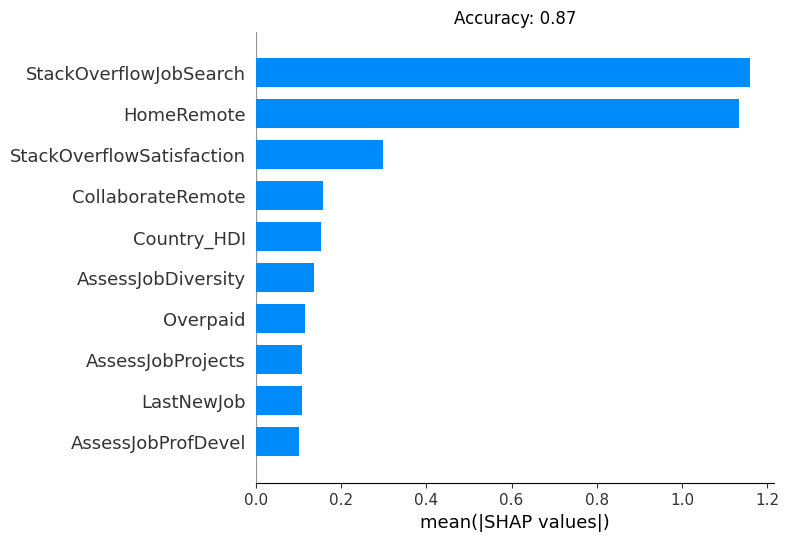
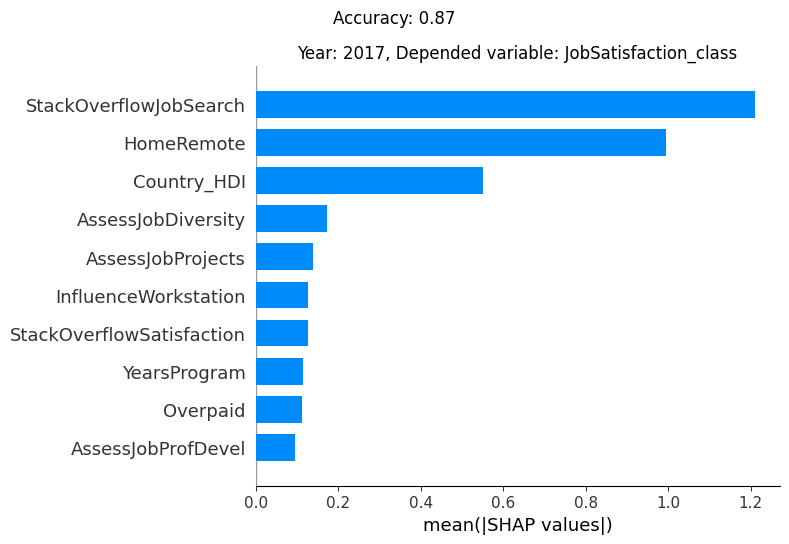
asdf

Changed region(s): [[0.0, 0.0, 0.9734, 0.8577], [0.3346, 0.8872, 1.0, 0.976], [0.0913, 0.7985, 0.3042, 0.8577]]

diff --git a/code/xgb.py b/code/xgb.py
@@ -56,12 +56,12 @@ def fit():
     years = [2017, 2018, 2019]
     for year in years:
         for var in regression_dependent_variables:
-            fit_model(get_data(year), var, False, f'{year}_{var}')
+            fit_model(get_data(year), var, False, f'{year}_{var}', year)
         for var in class_dependent_variables:
-            fit_model(get_data(year), var, True, f'{year}_{var}')
+            fit_model(get_data(year), var, True, f'{year}_{var}', year)
 
 
-def fit_model(data, dependent_variable, is_classifier, name):
+def fit_model(data, dependent_variable, is_classifier, name, year):
     print(f'Fitting for {name}')
     estimator = get_estimator(is_classifier)
 
@@ -88,8 +88,8 @@ def fit_model(data, dependent_variable, is_classifier, name):
     if is_classifier:
         title = "Accuracy: %.2f" % accuracy_score(y_test, preds)
     else:
-        title = "RMSLE: %.2f" % math.sqrt(abs(mean_squared_error(y_test, preds))) + ", R2: %.2f" % r2_score(y_test, preds)
-
+        title = "RMSLE: %.2f" % math.sqrt(abs(mean_squared_error(y_test, preds))) + ", R2: %.2f" % r2_score(y_test,
+                                                                                                            preds)
 
     # xgb.plot_importance(estimator, max_num_features=10, importance_type='gain')
     # values = list(selection_model.get_booster().get_score(importance_type='gain').values())
@@ -108,7 +108,8 @@ def fit_model(data, dependent_variable, is_classifier, name):
     # result.plot(kind='barh')
     plt.tight_layout()
     plt.xlabel('mean(|SHAP values|)')
-    plt.title(title)
+    plt.title('Year: ' + str(year) + ', Depended variable: ' + dependent_variable)
+    plt.suptitle(title)
     plt.savefig(f'feat_importance/feat_importance_{name}.png', bbox_inches='tight')
 
 
